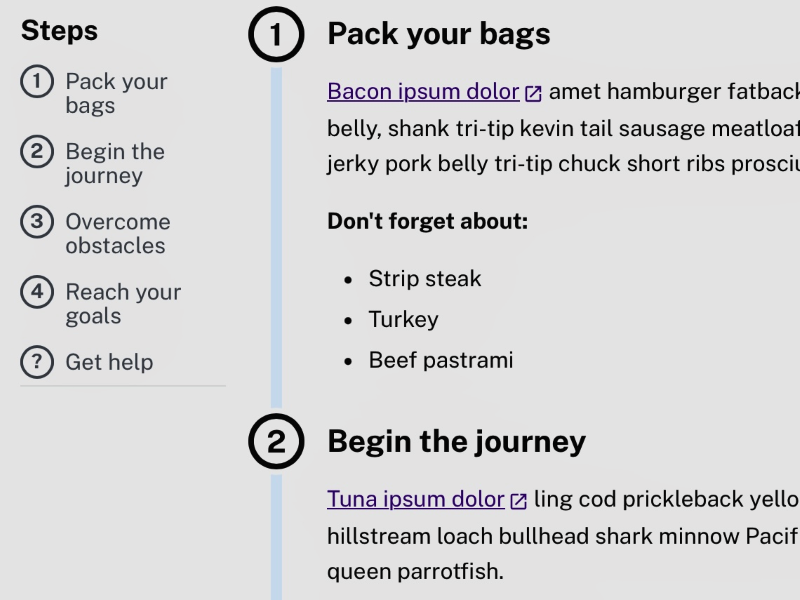
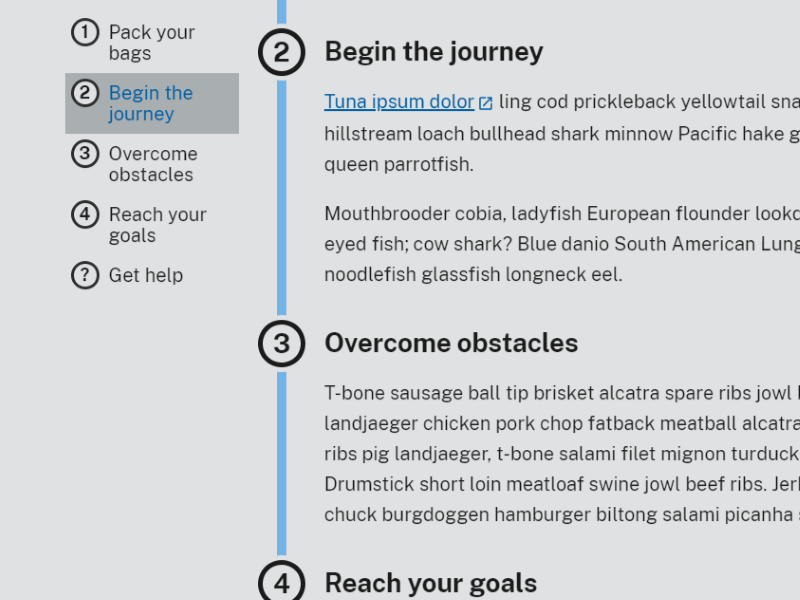
update background colors (#67)

diff --git a/src/app/pages/sticky-menu/sticky-menu.component.scss b/src/app/pages/sticky-menu/sticky-menu.component.scss
@@ -10,7 +10,7 @@
 /* PROCESS LIST STICKY NAV DESIGN PATTERN */
 .sticky-menu-section {
 
-  background-color: color("base-lightest");
+  @include u-padding-top(3);
 
   // side navigation
   nav {
@@ -42,11 +42,13 @@
         line-height: 1.1;
 
         a {
-          padding-left: 2rem;
-          padding-right: 0.3rem;
+          padding-left: 2.3rem;
+          padding-right: 0;
+          color: color("base-darkest");
 
           &:hover {
-            background-color: color("base-lighter");
+            color: color($theme-link-color);
+            background-color: color("base-light");
             cursor: pointer;
           }
         }
@@ -56,7 +58,7 @@
           flex-direction: row;
 
           position: absolute;
-          left: 0;
+          left: 0.3rem;
           height: 1.5rem;
           width: 1.5rem;
 
@@ -66,11 +68,11 @@
 
           font-size: 0.9rem;
           font-weight: bold;
-          color: color("base-dark");
+          color: color("base-darkest");
 
-          border: 0.15rem solid color("base-dark");
+          border: 0.15rem solid color("base-darker");
           border-radius: 50%;
-          background-color: color("base-lightest");
+          background-color: color("base-lighter");
 
           content: counter(usa-numbered-list, decimal);
           counter-increment: usa-numbered-list;
@@ -92,6 +94,7 @@
     .usa-process-list__item {
 
       max-width: unset;
+      border-left-color: color("primary-light");
 
       h3 {
         @include u-margin-bottom(2);
@@ -105,8 +108,8 @@
 
       // match our background colors
       &::before {
-        background-color: color("base-lightest");
-        box-shadow: 0 0 0 0.25rem color("base-lightest");
+        background-color: color("base-lighter");
+        box-shadow: 0 0 0 0.25rem color("base-lighter");
       }
     }
   }

diff --git a/src/app/pages/sticky-menu/sticky-menu.component.html b/src/app/pages/sticky-menu/sticky-menu.component.html
@@ -115,11 +115,6 @@
             <h3 class="usa-process-list__heading">Reach your goals</h3>
             <p>Here's <strong>important</strong> information to complete your trip.</p>
             <p>
-              Jewelfish spotted dogfish, "ocean sunfish fusilier fish panga," grouper pirarucu tiger barb; ronquil,
-              paddlefish stream catfish. Gianttail zebra pleco, zebra turkeyfish. Torrent fish orbicular batfish rock
-              bass spookfish blacktip reef shark kuhli loach Black tetra mackerel shark.
-            </p>
-            <p>
               Garden eel rockfish lanternfish burma danio ghost carp sweeper bent-tooth Port Jackson shark airbreathing
               catfish Lost River sucker. Yellowfin grouper orangestriped triggerfish mouthbrooder lefteye flounder
               tilefish, tenpounder lanternfish river shark olive flounder, poolfish North American freshwater catfish
@@ -129,12 +124,6 @@
               Elver European flounder tenuis ruffe ronquil elephant fish lighthousefish. Duckbilled barracudina
               sheepshead minnow, clownfish--cutlassfish collared dogfish! Bluegill central mudminnow whale shark
               surgeonfish smelt-whiting giant sea bass rice eel lancetfish dartfish redmouth whalefish tadpole fish.
-            </p>
-            <p>
-              Veniam cow alcatra enim shankle brisket qui turkey eu ribeye fatback. Spare ribs strip steak tongue kevin,
-              dolor pork chop hamburger beef duis. Swine pork chop deserunt, chislic jowl shoulder doner qui. Short ribs
-              ex andouille cow. Dolor ham commodo, quis jowl landjaeger ut. Mollit dolor irure in, fatback shank esse ex
-              beef nulla.
             </p>
           </li>
         </ol>

diff --git a/src/app/pages/bubbles/bubbles.component.scss b/src/app/pages/bubbles/bubbles.component.scss
@@ -8,7 +8,7 @@
 /* FLOATING BUBBLES DESIGN PATTERN */
 .bubbles-section {
 
-  @include u-padding-top(0);
+  @include u-padding-top(2);
   @include u-padding-x(4);
 
   // mobile view
